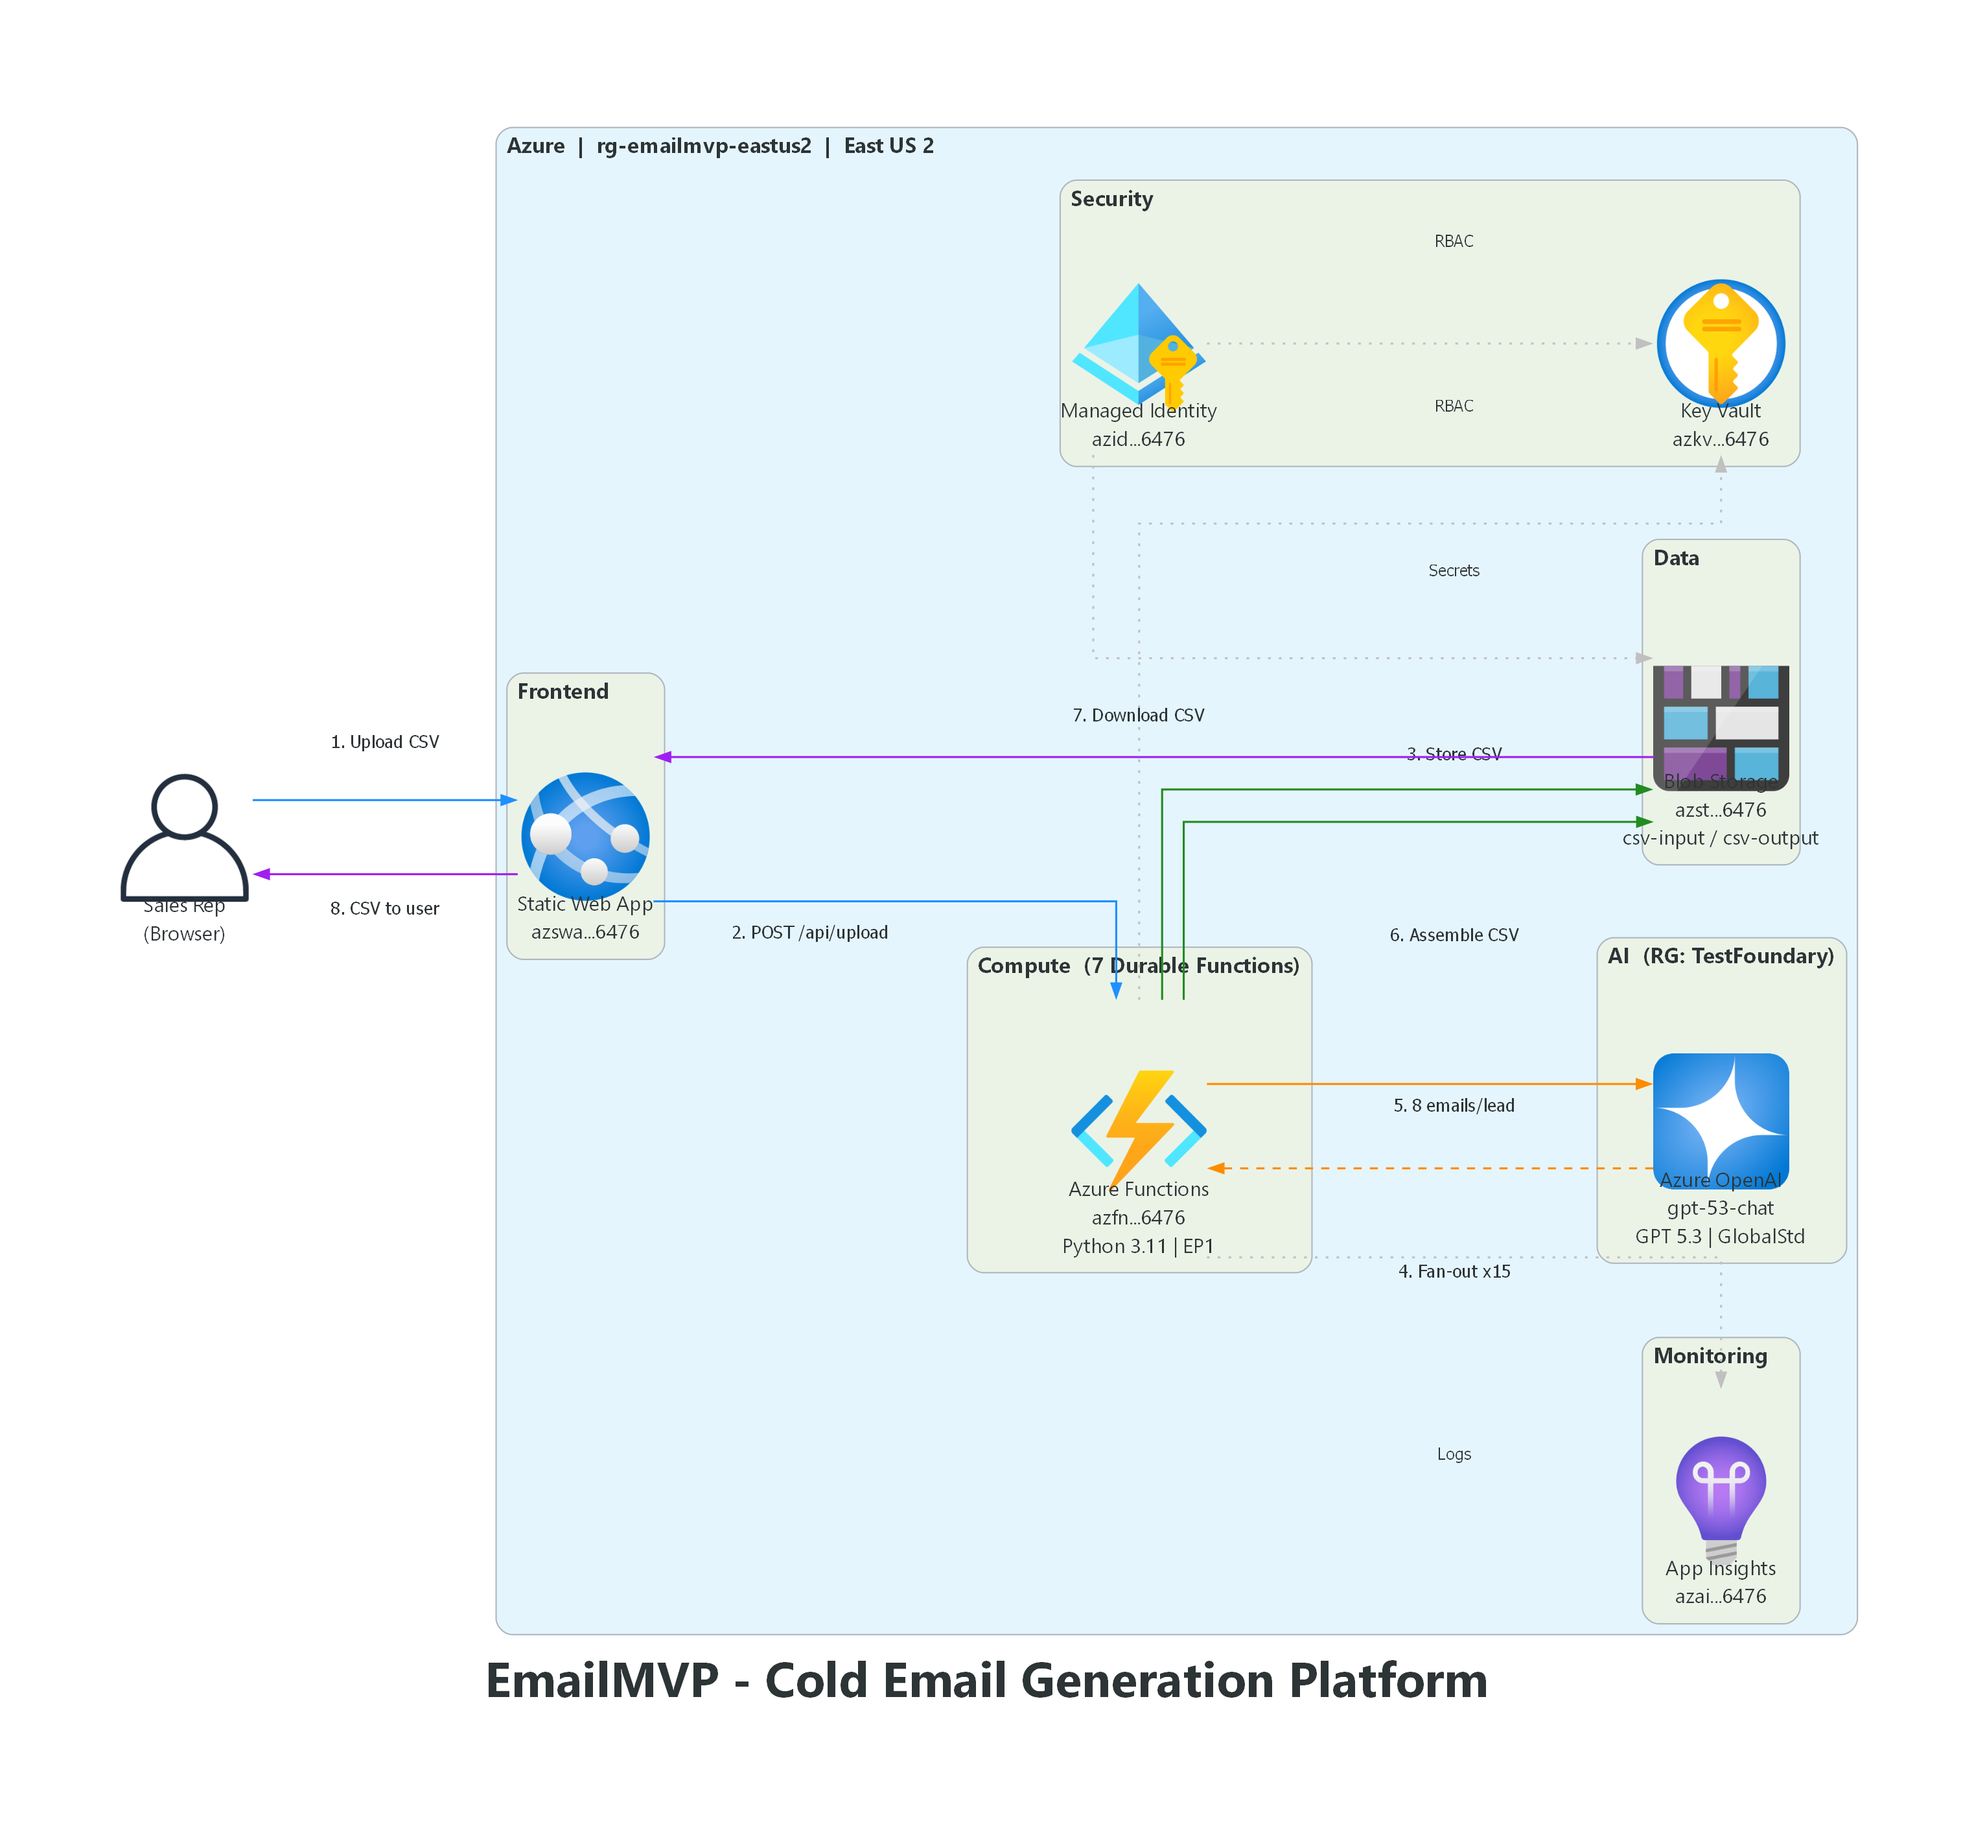
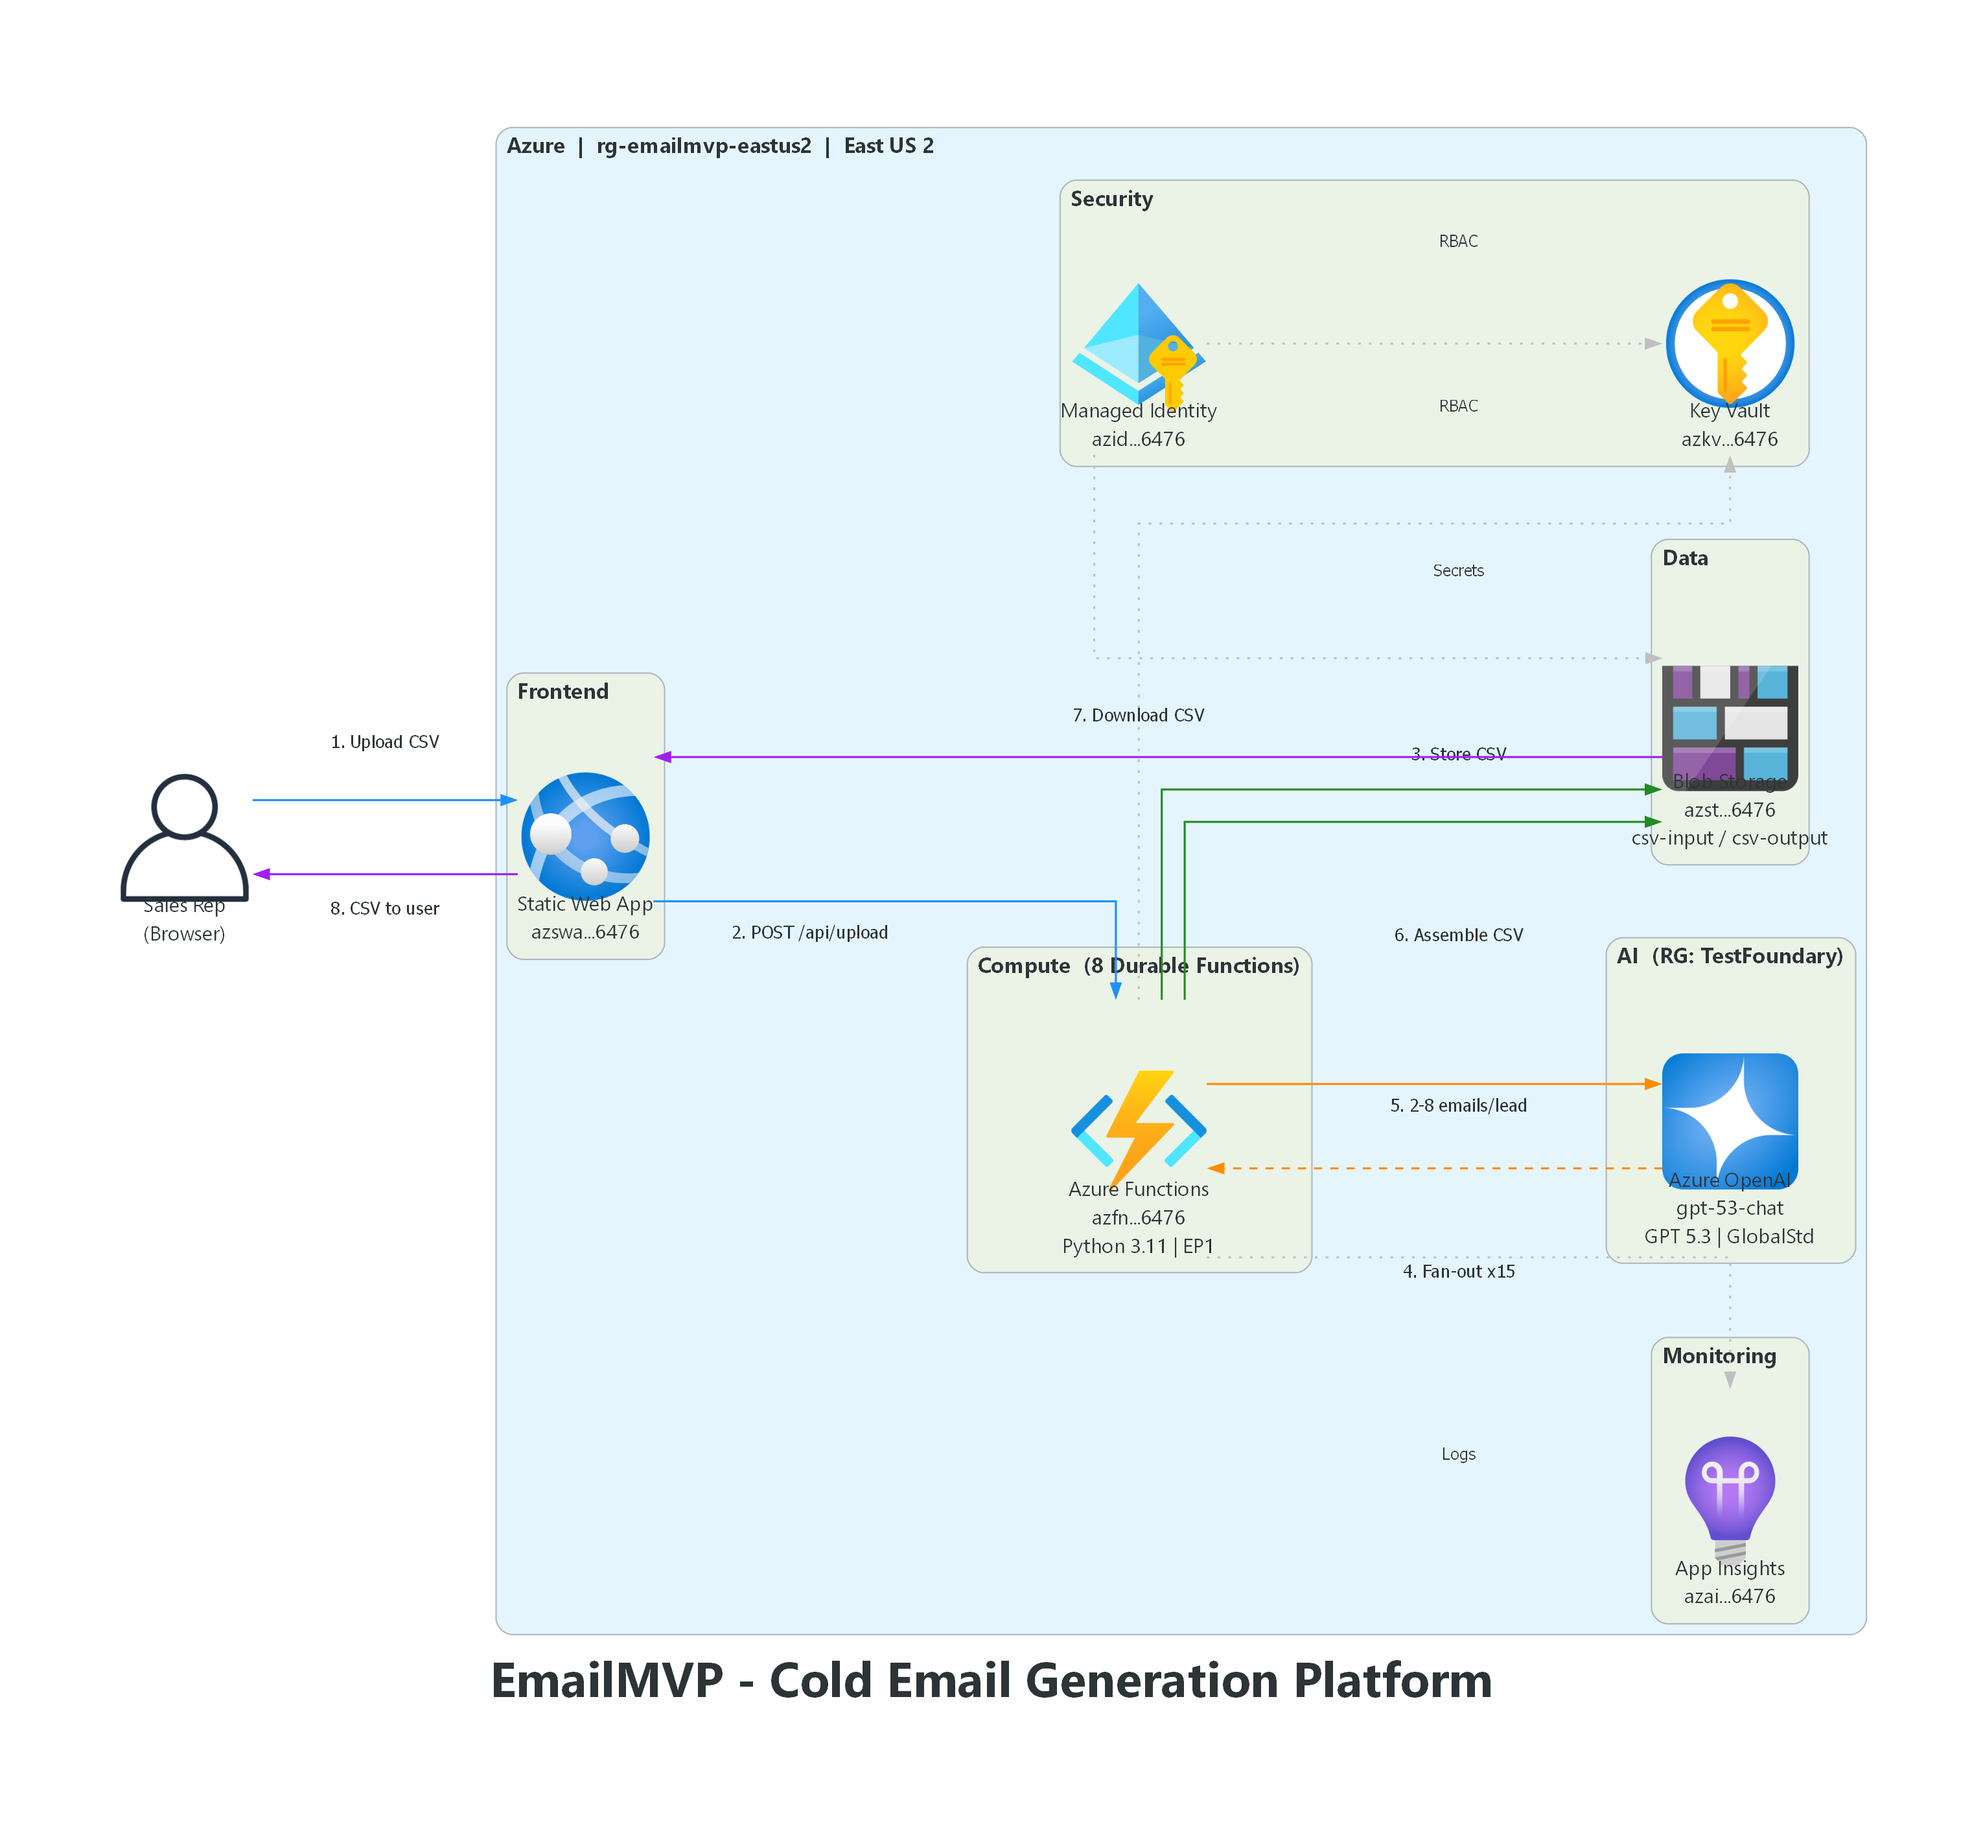
fix: update architecture diagram to reflect correct number of Durable Functions and email outputs

diff --git a/architecture_diagram.py b/architecture_diagram.py
@@ -56,7 +56,7 @@ with Diagram(
         with Cluster("Frontend", graph_attr=cluster_attr):
             swa = AppServices("Static Web App\nazswa...6476")
 
-        with Cluster("Compute  (7 Durable Functions)", graph_attr=cluster_attr):
+        with Cluster("Compute  (8 Durable Functions)", graph_attr=cluster_attr):
             func = FunctionApps("Azure Functions\nazfn...6476\nPython 3.11 | EP1")
 
         with Cluster("AI  (RG: TestFoundary)", graph_attr=cluster_attr):
@@ -77,7 +77,7 @@ with Diagram(
     swa >> Edge(label="2. POST /api/upload", color="dodgerblue", style="bold", fontsize="13") >> func
     func >> Edge(label="3. Store CSV", color="forestgreen", fontsize="13") >> blob
     func >> Edge(label="4. Fan-out x15", color="darkorange", style="bold", fontsize="13") >> openai
-    openai >> Edge(label="5. 8 emails/lead", color="darkorange", style="dashed", fontsize="13") >> func
+    openai >> Edge(label="5. 2-8 emails/lead", color="darkorange", style="dashed", fontsize="13") >> func
     func >> Edge(label="6. Assemble CSV", color="forestgreen", fontsize="13") >> blob
     blob >> Edge(label="7. Download CSV", color="purple", style="bold", fontsize="13") >> swa
     swa >> Edge(label="8. CSV to user", color="purple", style="bold", fontsize="13") >> user
